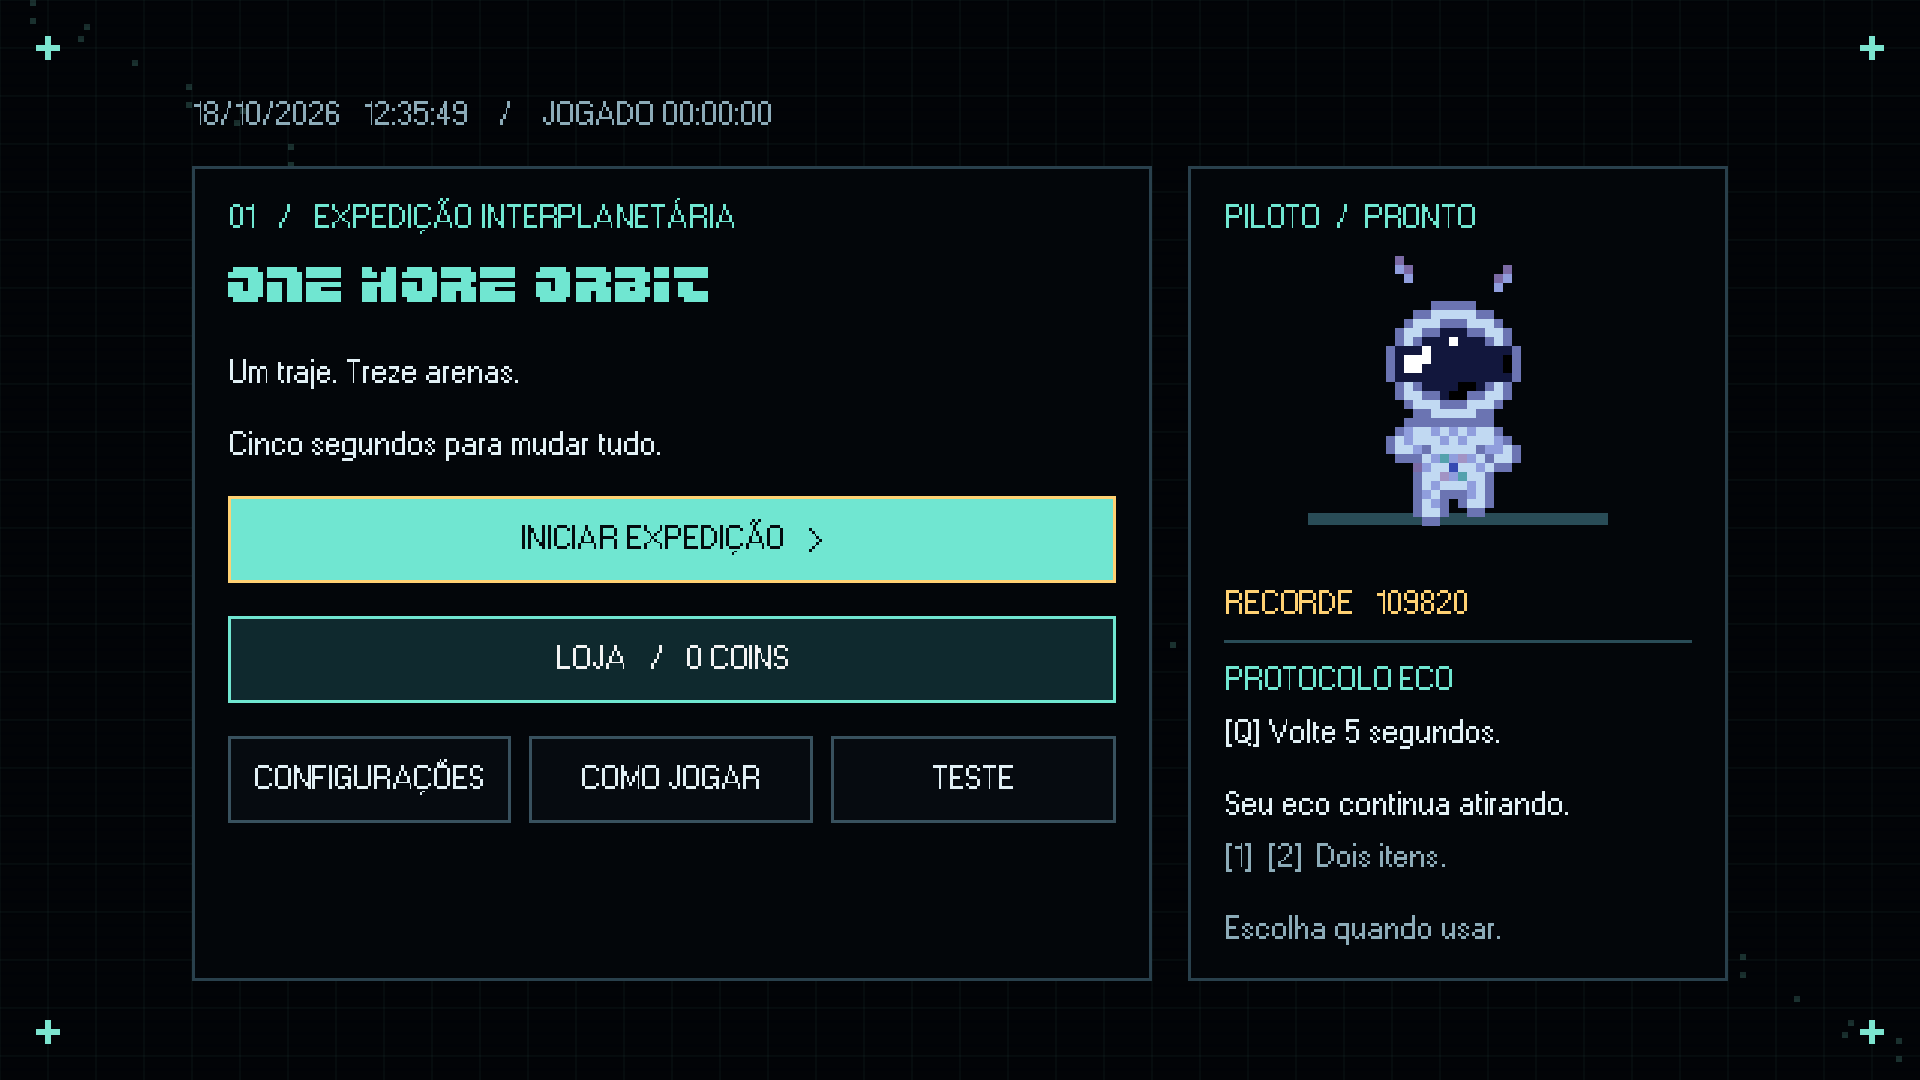
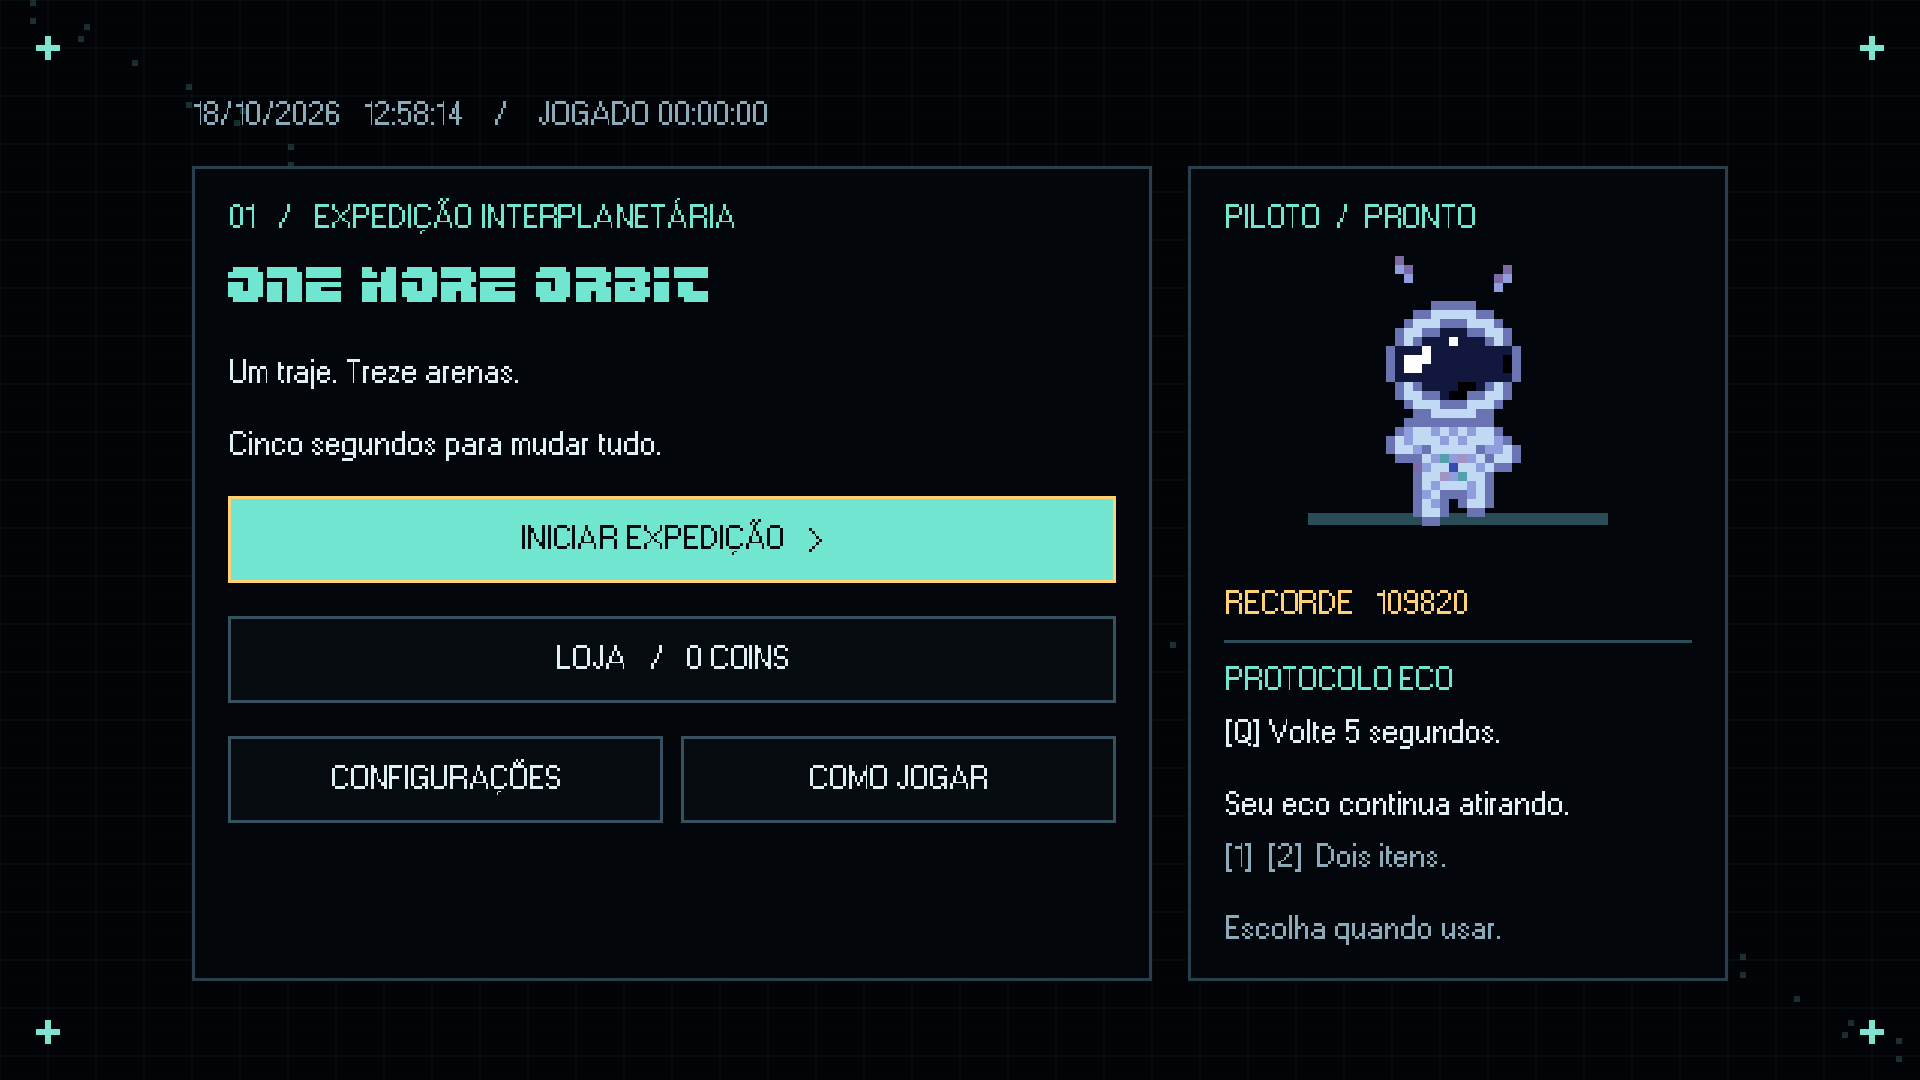
Restringe testes a acesso de desenvolvedor com senha nas configuracoes

diff --git a/README.md b/README.md
@@ -30,7 +30,7 @@ Só três segundos para alcançar o foguete. O loot no chão fica para trás.
 
 Capturas em **1920×1080**. [Arquivos e instruções de captura](docs/media/README.md). [Fundo de Júpiter em PNG](docs/media/jupiter-fundo.png).
 
-## Versão atual: 0.2.0
+## Versão atual: 0.2.1
 
 - Chefe de Netuno animado com os três frames originais de `assets/mobs_netuno/mob_neturno2`.
 - Tela expandida para preencher 1920×1080 e outras proporções sem bordas, com escala uniforme e HUD centralizada.
@@ -154,11 +154,11 @@ Cada Prestígio aumenta em 1 o nível máximo de todos os atributos. Não há te
 
 O dash percorre cerca de 204 px. A tecla **3** coloca o equipamento de chão do terceiro slot: mina de grande área, torreta ou baliza de contenção. Os slots 1 e 2 continuam exclusivos para consumíveis.
 
-O menu **Teste** abre qualquer uma das 13 arenas ou seu chefe, com escolha de equipamento e invulnerabilidade opcional. Não concede progresso nem altera recordes. A arena 13 combina as famílias de mobs e um chefe com meteoros, atração, prisão, escudos e dash.
+Após desbloquear **Configurações → Desenvolvedor** com a senha do desenvolvedor, o menu **Teste** abre qualquer uma das 13 arenas ou seu chefe, com escolha de equipamento e invulnerabilidade opcional. Não concede progresso nem altera recordes. A arena 13 combina as famílias de mobs e um chefe com meteoros, atração, prisão, escudos e dash.
 
 Detalhes de implementação e testes: [expansão](docs/EXPANSAO_INFINITA.md).
 
-## Sobrevivência infinita (0.2.0)
+## Sobrevivência infinita (0.2.1)
 
 Em Iniciar Expedição, selecione Sobrevivência no seletor de modo e escolha Fácil, Médio ou Difícil. A arena mede 2048×1344: exatamente o dobro da área da arena inicial (1536×896), sem esticar os pixels.
 
@@ -172,7 +172,7 @@ Verificação: `Godot --headless --path . --script tests/survival.gd`.
 
 No modo Sobrevivência, Berserk recarrega em 90 segundos e Eco em 45 segundos desde o uso, contados somente durante o combate. Os temporizadores persistem entre hordas e mortes e congelam na loja e nos menus. Berserk continua exigindo a habilidade desbloqueada. Na campanha, Berserk continua limitado a uma vez por run e Eco a uma vez por arena. Os indicadores usam ícones de rajada radial e retorno temporal com texto compacto; nos controles por toque, os próprios botões mostram os segundos restantes.
 
-Visual 0.2.0: arma e arma do Eco orbitam a 22 px do pivô (antes 16 px). Alcance e largura dos projéteis permanecem iguais. Berserk usa slot preto de 64×64 no canto inferior esquerdo, com ícone, tecla configurada e contagem de recarga sobre o ícone. Quando pronto, o ícone fica aceso; detalhes aparecem ao passar o mouse. O contrato foi deslocado para não sobrepor o slot.
+Visual 0.2.1: arma e arma do Eco orbitam a 22 px do pivô (antes 16 px). Alcance e largura dos projéteis permanecem iguais. Berserk usa slot preto de 64×64 no canto inferior esquerdo, com ícone, tecla configurada e contagem de recarga sobre o ícone. Quando pronto, o ícone fica aceso; detalhes aparecem ao passar o mouse. O contrato foi deslocado para não sobrepor o slot.
 
 ## Plutão: Planície do Exílio
 
@@ -188,3 +188,9 @@ Eventos aleatórios alternam sem repetir imediatamente o anterior:
 Eventos começam após uma folga inicial de 8–13 segundos. Há aviso de 2 segundos, marcas de impacto de pelo menos 1,1 segundo e intervalos de descanso. O modo difícil cria ameaças com mais frequência. Loja, pausa e tela de morte interrompem os eventos; ao abrir a loja ou retornar de uma morte, as ameaças são limpas.
 
 Validação: `Godot --headless --path . --script tests/pluto_survival.gd`. Para atualizar a captura da arena: `Godot --path . --script tests/pluto_survival.gd -- --preview`.
+
+## Acesso do desenvolvedor
+
+O botão Teste fica oculto para os jogadores. Para acessar as arenas de teste, abra Configurações → Desenvolvedor, digite a senha definida pela equipe e pressione Desbloquear (ou Enter). O acesso vale somente na sessão atual e pode ser encerrado com Bloquear acesso. A senha digitada não é salva; a verificação utiliza um resumo SHA-256 no código.
+
+Teste automatizado: defina a variável de ambiente `OMO_DEV_TEST_PASSWORD` com a senha localmente e execute `Godot --headless --path . --script tests/developer_access.gd`. A senha não aparece nas capturas nem nos logs do teste.

diff --git a/docs/EXPORTACAO.md b/docs/EXPORTACAO.md
@@ -3,7 +3,7 @@
 Arquivos de saída:
 
 - builds/windows/OneMoreOrbit.exe: Windows x86_64, release, dados incorporados no executável.
-- builds/android/OneMoreOrbit.apk: Android ARM64 e ARM de 32 bits, release assinado, pacote com.noctir.onemoreorbit, versão 0.2.0.
+- builds/android/OneMoreOrbit.apk: Android ARM64 e ARM de 32 bits, release assinado, pacote com.noctir.onemoreorbit, versão 0.2.1.
 
 Para repetir a exportação, execute tools/export_game.py com Python. Na primeira execução, tools/prepare_exports.py baixa os templates oficiais Godot 4.7.2, OpenJDK Temurin 17 e ferramentas Android oficiais do Google. A instalação fica em .godot/export-tools, sem mudar Java ou Android do sistema. O Godot de exportação usa configuração portátil própria. Defina GODOT_BIN com o caminho do executável Godot 4.7.2; o script também procura Godot no PATH e na pasta Downloads do usuário. Os caminhos locais de templates são aplicados só durante a exportação, e o preset original é restaurado ao finalizar.
 
